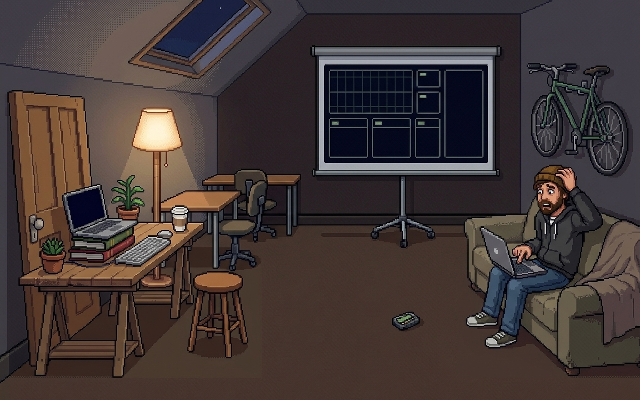
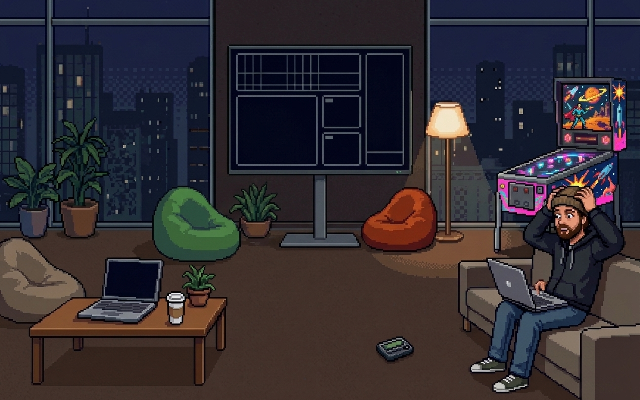
art: room-ch5 redone as the atrium (2026-11-13)
Claude-Session: https://claude.ai/code/session_014bw7Voj6ZyqA75pqeRWNHh

diff --git a/art-drops/2026-11-12-room-ch5/HANDBACK.md b/art-drops/2026-11-12-room-ch5/HANDBACK.md
@@ -1,24 +1,27 @@
-# Art drop: Room 5: the loft (Build & Release Engineer) (2026-11-12)
+# Art drop: Room 5, the atrium (Build & Release Engineer) (2026-11-12, redone 2026-11-13)
 
 From `briefs/art/01-rooms-2-5.md` (room 5) and `briefs/art/02-persona-cards.md` (`P5_card`). Made by Art Claude on Rick's personal account.
+
+**Redone 2026-11-13 on Rick's direction:** the startup loft felt like a different building, and the hero walks between rooms. Room 5 is now **the building's atrium / hangout space**. The file names are unchanged (`R5_loft` etc.) so the code and brief still match; rename them if you like.
 
 ## Files (all 640×400)
 
 | File | What |
 |---|---|
-| `R5_loft.png` | Room plate |
-| `R5_npc_talk_1.png`, `R5_npc_talk_2.png` | The persona in two other moments; differ from the plate only in the region below |
-| `R5_wall_closeup.png` | The wall display straight on, all panels blank |
-| `R5_pc_closeup.png` | The hero's computer screen straight on, blank |
-| `P5_card.png` | `P5_card`: Rogue of the Friday Deploy. Hooded cloak over the hoodie, beanie under the hood, mid-leap over rooftops at sunset, firing a crossbow whose bolt trails rocket flame, blank scrolls spilling from his pouch. Reads at 128×80. |
+| `R5_loft.png` | Room plate: night atrium with city windows, bean bags, plants, a colourful pinball machine, the dashboard monitor on a pedestal stand, the hero's laptop on a coffee table (left), the engineer on a sofa (right), the pager on the floor |
+| `R5_npc_talk_1.png` | Mouth open, both hands thrown up, laptop on his knees |
+| `R5_npc_talk_2.png` | Pointing at the monitor, one hand on the laptop |
+| `R5_wall_closeup.png` | The monitor straight on, all panels blank |
+| `R5_pc_closeup.png` | The hero's laptop straight on, blank screen |
+| `P5_card.png` | Unchanged from the first drop: Rogue of the Friday Deploy. Same man as the new plate. |
 
-## Changes from the brief
+## Changes from the brief (Rick's direction)
 
-- **The projector layout has two extra boxes.** Along with the chart, the column of three small boxes and the chat panel, there is a wide box under the chart. Use it or leave it empty.
-- **The small boxes are small:** in the close-up about 26×19, 26×23 and 26×38, below the brief's 55×40.
-- **The hero's computer is on the left and the persona on the right**, as briefed.
-- **The pager** lies at about x 196–210, y 155–163, and doesn't change in any frame. The hero's feet at y 192 pass in front of it.
-- **Talk 2:** he points at the projector screen, on his left.
+- **Atrium, not a loft.** Bean bags, plants, tall night windows, a floor lamp.
+- **The display is a big monitor on a fixed pedestal stand**, not a projector on wheels. Rick: a dashboard on casters doesn't make sense.
+- **Pinball machine** in the back right, bright and colourful with **original** pulp sci-fi art (ringed planet, rockets). No real characters, franchise, names or logos. Rick rejected a take whose caped hero was too close to a well-known character.
+- **The hero's computer** is a laptop on a coffee table, with no seat of its own. A beige bean bag sits at the left edge.
+- **The display has two small boxes, not three.** The layout is: the chart across the top left, a large panel under it, two boxes in the middle, and the tall chat panel on the right.
 
 ## Facts the code depends on (320×200, about ±3 px)
 
@@ -26,45 +29,48 @@ From `briefs/art/01-rooms-2-5.md` (room 5) and `briefs/art/02-persona-cards.md` 
 
 | Hotspot | Rect (x, y, w, h) | Hero stands at (left edge, 28 px hero) |
 |---|---|---|
-| `pc`: door desk with the laptop on books, and the stool (left) | 8, 88, 114, 100 | x 96 |
-| `monitor`: projector screen on its stand | 155, 22, 94, 100 | no walk; the tap opens the close-up |
-| `npc`: Release Engineer on the couch (right) | 230, 80, 90, 108 | x 196 |
-| `pager` (optional) | 196, 155, 15, 9 | — |
+| `pc`: coffee table with the laptop (left) | 0, 128, 118, 68 | x 96 |
+| `monitor`: dashboard monitor on its stand | 115, 24, 90, 104 | no walk; the tap opens the close-up |
+| `npc`: engineer on the sofa (right) | 232, 85, 88, 113 | x 200 |
+| `pager` (optional) | 194, 173, 18, 11 | — |
+| `pinball` (optional, background) | 250, 42, 68, 83 | — |
 
-**Walking:** feet on y 192; hero's left edge from x 0 to x 292. The open gap is x 122–229.
+**Walking:** feet on y 192; hero's left edge from x 0 to x 292. Open floor x 118–232. The hero standing at x 200 is in front of the pager.
 
 ### Display panels (the art is blank; the code draws in these)
 
 | Panel | Room (`R5_loft`) | Close-up (`R5_wall_closeup`) |
 |---|---|---|
-| Whole screen | x 162–244, y 32–81 | x 63–264, y 32–138 |
-| Chart (sign-ups, with grid lines) | x 165–206, y 36–56 | x 69–178, y 38–87 |
-| Wide box under the chart (spare) | x 165–204, y 60–78 | x 69–178, y 94–132 |
-| Small box 1 | x 209–219, y 36–42 | x 184–210, y 38–57 |
-| Small box 2 | x 209–219, y 46–56 | x 184–210, y 64–87 |
-| Small box 3 | x 208–219, y 60–78 | x 184–210, y 94–132 |
-| Chat panel (support inbox) | x 223–240, y 36–78 | x 216–257, y 38–132 |
+| Whole screen | x 115–204, y 24–84 | x 41–280, y 19–181 |
+| Chart (sign-ups; faint grid lines) | x 119–179, y 27–44 | x 50–214, y 27–74 |
+| Large panel under the chart | x 119–157, y 48–81 | x 50–156, y 84–174 |
+| Box 1 (release readout) | x 162–179, y 48–63 | x 165–214, y 84–124 |
+| Box 2 (release readout) | x 162–179, y 67–81 | x 165–214, y 134–174 |
+| Chat panel (support inbox) | x 183–200, y 27–81 | x 223–272, y 27–174 (a divider at y 159) |
 
-**PC close-up (`R5_pc_closeup`) screen:** x 66–255, y 23–143.
+The chart's grid lines are drawn in the art. The close-up's two boxes each have a small grey tab at the top left (about 10×4), which the code can treat as a label chip.
+
+**PC close-up (`R5_pc_closeup`) screen:** x 90–230, y 38–129.
 
 ### Talk frames
 
-The loop plate → talk_1 → plate → talk_2 swaps cleanly. Changed region: talk_1: x 232–320, y 63–189. talk_2: x 232–320, y 63–189. (the region includes a few stray pixels round the figure that match the plate to within a shade).
+They differ from the plate only inside **x 238–320, y 38–200** (his figure). The loop plate → talk_1 → plate → talk_2 swaps cleanly.
 
 ## Flaws kept
 
-See "Changes from the brief". Nothing else known.
+- **The pinball machine sits right behind his head**, so his outline is less clear against the bright backglass. Rick accepted it.
+- **The PC close-up's screen is about 44% × 46% of the frame**, below the brief's 60%.
+- **The wall close-up:** a small magnifier icon that Gemini drew in the large panel was painted out (patched from the same panel).
 
 ## Provenance
 
-- **Tool:** Gemini API `gemini-3.1-flash-image`, 3:2, 1K, 2026-11-12, on Rick's personal account.
-- **Plate:** the brief's room prompt with its opening and closing lines, `scratch/room_gen/raw/R1_exec_floor.png` attached as the style reference (`scratch/room_gen/gen_rooms.py`).
-- **Talk frames:** edits of the approved plate with the brief's edit wording (`scratch/room_gen/gen_set.py`), 2 tries each. Only the person's changed pixels were composited back onto the plate (a diff mask inside a box round the person), so each frame differs from the plate in one region.
-- **Close-ups:** new plates, the room plate attached as the style reference, the brief's opening and closing lines, 2 tries each.
-- **Card:** brief 02's prompt with its opening and closing lines, the room plate attached as the character reference, plus: knees-up, face visible, outer edge free, original costume, avoid text/runes/frame. 2 tries.
-- **Crop:** centre 16:10 (1264×790), nearest-neighbour to 640×400, as for R1.
-- **Tries:** Plate: try 5 of 5. Talk 1: t1. Talk 2: t2. Wall close-up: t1. PC close-up: t2. Card: t1 of 2.
+- **Tool:** Gemini API `gemini-3.1-flash-image`, 3:2, 1K, 2026-11-13. Run from Art Claude's cloud workspace with a key Rick made for that session; his laptop link was down.
+- **Plate:** 5 tries. Tries 1–3 were new plates with brief 01's opening and closing lines and `assets/rooms/R1_exec_floor.png` as the style reference. Tries 4–5 were edits of try 3: projector → monitor on a pedestal stand, colourful original pinball art, bean bag removed from the floor strip. **Try 4 kept** (Rick's pick).
+- **Talk frames:** edits of the plate with brief 01's wording, 2 tries each. Kept: talk_1 t1, talk_2 t2; talk_2 t1 drew text on the monitor. Only his figure was composited back.
+- **Close-ups:** 2 tries each, the plate attached. Wall: t2 (t1 was see-through). PC: t1.
+- **Crop:** centre 16:10 (1264×790), nearest-neighbour to 640×400.
+- The raw images and tries are in Art Claude's cloud workspace, not yet in Rick's `scratch/`; they'll be copied there when the laptop link is back.
 
 ## Sign-off
 
-Rick approved the plate on 2026-11-12 ("go with the plates till we deep dive on how it's all gonna come together"): the room story may still change after that deep dive. The talk frames, close-ups and card were picked by Art Claude against the brief and have not been reviewed by Rick yet.
+Rick picked the plate (try 4) on 2026-11-13. The talk frames and close-ups were picked by Art Claude against the brief and have not been reviewed by Rick yet.
